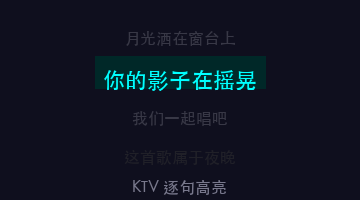
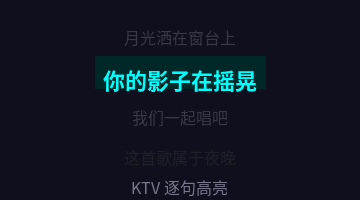
feat: use Source Han Sans for lyrics, YouShe BiaoTi for titles

diff --git a/render/fonts.py b/render/fonts.py
@@ -2,21 +2,50 @@
 from PIL import ImageFont
 from functools import lru_cache
 
-_FONT_PATHS = [
+# Font paths in priority order — Source Han Sans (思源黑体) preferred
+_FONT_REGULAR = [
+    "/Users/chunyuanlu/Library/Fonts/SourceHanSansCN-Regular.otf",
+    "/Library/Fonts/Microsoft/Microsoft Yahei.ttf",
     "/System/Library/Fonts/STHeiti Medium.ttc",
     "/System/Library/Fonts/Hiragino Sans GB.ttc",
-    "/System/Library/Fonts/STHeiti Light.ttc",
-    "/System/Library/Fonts/PingFang.ttc",
-    "/usr/share/fonts/truetype/noto/NotoSansCJK-Regular.ttc",
+]
+
+_FONT_BOLD = [
+    "/Users/chunyuanlu/Library/Fonts/SourceHanSansCN-Bold.otf",
+    "/Library/Fonts/Microsoft/SimHei.ttf",
+    "/System/Library/Fonts/STHeiti Medium.ttc",
+]
+
+_FONT_HEAVY = [
+    "/Users/chunyuanlu/Library/Fonts/SourceHanSansCN-Heavy.otf",
+    "/Users/chunyuanlu/Library/Fonts/SourceHanSansCN-Bold.otf",
+    "/Library/Fonts/Microsoft/SimHei.ttf",
+]
+
+_FONT_TITLE = [
+    "/Users/chunyuanlu/Library/Fonts/YouSheBiaoTiHei-2.ttf",
+    "/Users/chunyuanlu/Library/Fonts/SourceHanSansCN-Heavy.otf",
+    "/Users/chunyuanlu/Library/Fonts/SourceHanSansCN-Bold.otf",
 ]
 
 
-@lru_cache(maxsize=16)
-def get_font(size: int) -> ImageFont.FreeTypeFont:
-    """Load a Chinese-capable font at the given size, with fallback."""
-    for path in _FONT_PATHS:
+def _load_first(paths: list[str], size: int) -> ImageFont.FreeTypeFont:
+    for path in paths:
         try:
             return ImageFont.truetype(path, size)
         except OSError:
             continue
     return ImageFont.load_default()
+
+
+@lru_cache(maxsize=32)
+def get_font(size: int, weight: str = "regular") -> ImageFont.FreeTypeFont:
+    """Load a Chinese font. weight: 'regular', 'bold', 'heavy', 'title'."""
+    if weight == "bold":
+        return _load_first(_FONT_BOLD, size)
+    elif weight == "heavy":
+        return _load_first(_FONT_HEAVY, size)
+    elif weight == "title":
+        return _load_first(_FONT_TITLE, size)
+    else:
+        return _load_first(_FONT_REGULAR, size)

diff --git a/render/themes/wave_groove.py b/render/themes/wave_groove.py
@@ -134,7 +134,7 @@ class WaveGrooveTheme:
             draw.line(wave_points_mirror, fill=(60, 100, 180), width=1)
 
     def draw_title_text(self, draw: ImageDraw.Draw, text: str, canvas_w: int, y: int, max_w: int) -> None:
-        draw.text((canvas_w // 2, y), text, fill="white", anchor="mt", font=get_font(48))
+        draw.text((canvas_w // 2, y), text, fill="white", anchor="mt", font=get_font(48, "title"))
 
     def draw_artist_text(self, draw: ImageDraw.Draw, text: str, canvas_w: int, y: int, max_w: int) -> None:
         draw.text((canvas_w // 2, y), text, fill=(160, 180, 220), anchor="mt", font=get_font(32))

diff --git a/render/themes/neon_pulse.py b/render/themes/neon_pulse.py
@@ -123,7 +123,7 @@ class NeonPulseTheme:
             draw.line([(x1, y1), (x2, y2)], fill=(r, g, b), width=1)
 
     def draw_title_text(self, draw: ImageDraw.Draw, text: str, canvas_w: int, y: int, max_w: int) -> None:
-        draw.text((canvas_w // 2, y), text, fill="white", anchor="mt", font=get_font(48))
+        draw.text((canvas_w // 2, y), text, fill="white", anchor="mt", font=get_font(48, "title"))
 
     def draw_artist_text(self, draw: ImageDraw.Draw, text: str, canvas_w: int, y: int, max_w: int) -> None:
         draw.text((canvas_w // 2, y), text, fill=(180, 180, 200), anchor="mt", font=get_font(32))

diff --git a/render/themes/vinyl_minimal.py b/render/themes/vinyl_minimal.py
@@ -107,7 +107,7 @@ class VinylMinimalTheme:
                 )
 
     def draw_title_text(self, draw: ImageDraw.Draw, text: str, canvas_w: int, y: int, max_w: int) -> None:
-        draw.text((canvas_w // 2, y), text, fill=(220, 210, 190), anchor="mt", font=get_font(48))
+        draw.text((canvas_w // 2, y), text, fill=(220, 210, 190), anchor="mt", font=get_font(48, "title"))
 
     def draw_artist_text(self, draw: ImageDraw.Draw, text: str, canvas_w: int, y: int, max_w: int) -> None:
         draw.text((canvas_w // 2, y), text, fill=(150, 140, 120), anchor="mt", font=get_font(32))

diff --git a/generate_previews.py b/generate_previews.py
@@ -68,7 +68,7 @@ def render_theme_preview(theme_cls, name: str, cover: Image.Image):
 
     # Draw sample lyrics (karaoke style, simplified)
     draw = ImageDraw.Draw(frame)
-    font_big = get_font(22)
+    font_big = get_font(22, "bold")
     font_small = get_font(16)
 
     lyrics_y = int(PREVIEW_H * 0.62)
@@ -90,7 +90,7 @@ def render_lyrics_preview(style_name: str):
     img = Image.new("RGB", (w, h), (15, 15, 30))
     draw = ImageDraw.Draw(img)
 
-    font_big = get_font(22)
+    font_big = get_font(22, "bold")
     font_med = get_font(18)
     font_small = get_font(16)
 

diff --git a/render/lyrics/karaoke.py b/render/lyrics/karaoke.py
@@ -12,7 +12,7 @@ class KaraokeLyrics:
             return
 
         draw = ImageDraw.Draw(frame)
-        font_highlight = get_font(40)
+        font_highlight = get_font(40, "bold")
         font_normal = get_font(30)
 
         current_idx = 0

diff --git a/render/lyrics/word_fill.py b/render/lyrics/word_fill.py
@@ -12,7 +12,7 @@ class WordFillLyrics:
             return
 
         draw = ImageDraw.Draw(frame)
-        font = get_font(38)
+        font = get_font(38, "bold")
 
         lyrics_y = int(h * 0.68)
 

diff --git a/render/lyrics/fade.py b/render/lyrics/fade.py
@@ -12,7 +12,7 @@ class FadeLyrics:
             return
 
         draw = ImageDraw.Draw(frame)
-        font = get_font(38)
+        font = get_font(38, "bold")
 
         lyrics_y = int(h * 0.68)
 
